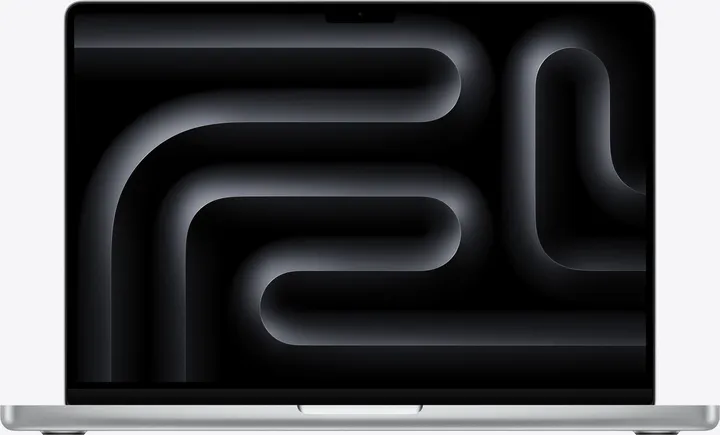
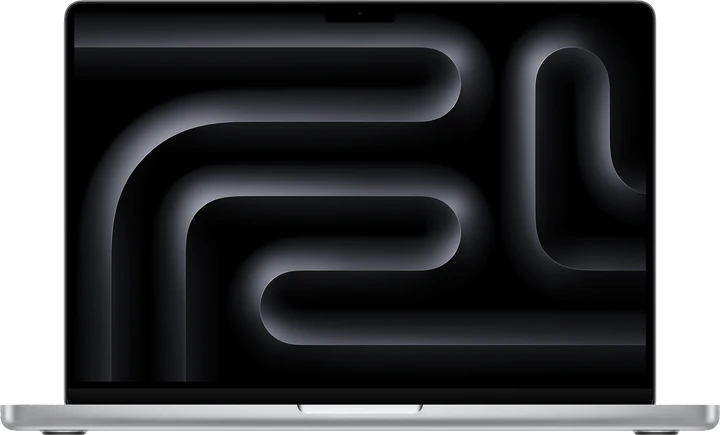
release: wycięte zdjęcia Apple, wersja w adresach zdjęć, A17/A27 bez zastępczych (#171)
* fix: zostaw w wyszukiwarce 5 szybkich akcji jako smukłe pigułki (#113)

Dziewięć dużych kafelków to było za dużo (Krystian 17.11). Zostają:
Zadzwoń (Rabka-Zdrój), Zadzwoń (Zakopane), Trasa, Zgłoś naprawę, Status.
Kopiuj numer, E-mail, Kontakt i Motyw dalej działają po wpisaniu słowa
(„kopiuj”, „motyw”…). Pigułki: ikona i dwie krótkie linie w jednym rzędzie,
na telefonie przewijane w poziomie.

* fix: usuń sklep z bloga, skróć meta wpisów, SMS → e-mail i poprawki z audytu 16.11 (#114)

* fix: usuń treści sklepowe z bloga i skróć meta wpisów

Przepisz zdania sprzedażowe (sklep, oferta, od ręki, na zamówienie) na
porady i serwis (CLAUDE.md §5). Skróć opisy wpisów do 155 znaków i
tytuły do 60. Dopisz test meta i braku treści sklepowych w blogu,
wyczyść KNOWN_SKLEP w tresc.spec.

* fix: zamień obietnicę SMS na e-mail na stronie głównej

* fix: popraw drobne treści z audytu 16.11

Odzysk danych bez gwarancji na części, „9 rodzajów folii”, jeden
certyfikat PZH i RoHS na /hammer-glass, stopka bez linku do surowego
sitemap.xml.

* docs: dopisz pomysły na później po porządkach w blogu

---------

* feat: szkic zgłoszenia w sessionStorage i zdjęcia laptopa bez logo Apple (#115)

* feat: zapisuj szkic zgłoszenia w sessionStorage i przywracaj go po odświeżeniu

Szkic (bez zgody) zapisuje się po 400 ms, wraca razem z krokiem,
pasek „Przywróciliśmy Twoje zgłoszenie · Zacznij od nowa” go czyści,
a udane wysłanie (201) usuwa. Parametry kreatora wygrywają ze szkicem
[…]

diff --git a/frontend/lib/tech/catalog/index.ts b/frontend/lib/tech/catalog/index.ts
@@ -11,8 +11,22 @@ import type { Accessory, Brand, Catalog, CatalogModel, Family, Kind, Quiz } from
 
 export * from "./types";
 
+/**
+ * Files under /tech/* are cached for 30 days (next.config publicFilesCache), so a photo replaced
+ * under the same name stayed old in returning visitors' browsers (Krystian 20.11, Samsung).
+ * The photo's source date goes into the URL: a new photo (new date) means a new address.
+ * Next 15+: allow the query in `images.localPatterns` (search: "?v=*") when upgrading.
+ */
+export function versionedSrc(src: string, date: string): string {
+  return `${src}?v=${date.replace(/-/g, "")}`;
+}
+
+function withImageVersions(models: CatalogModel[]): CatalogModel[] {
+  return models.map((m) => ({ ...m, images: m.images.map((i) => (i.src ? { ...i, src: versionedSrc(i.src, i.source.date) } : i)) }));
+}
+
 export const catalog: Catalog = {
-  models: [...(apple as CatalogModel[]), ...(samsung as CatalogModel[])],
+  models: withImageVersions([...(apple as CatalogModel[]), ...(samsung as CatalogModel[])]),
   families: families as Family[],
   accessories: accessories as Accessory[],
   quizzes: quizzes as Quiz[],

diff --git a/frontend/lib/tech/catalog/catalog.test.ts b/frontend/lib/tech/catalog/catalog.test.ts
@@ -10,6 +10,19 @@ describe("katalog: reguły danych (runda 18.11 v2 §0, §5)", () => {
     expect(catalogErrors(catalog)).toEqual([]);
   });
 
+  it("every colour has a real photo — no drawn placeholder on the page (Krystian 20.11)", () => {
+    const missing = catalog.models.flatMap((m) => m.colors.filter((c) => !m.images.some((i) => i.color === c.key)).map((c) => `${m.slug}/${c.key}`));
+    expect(missing).toEqual([]);
+  });
+
+  it("photo URLs carry the source date, and the file behind each one exists (30-day cache, Krystian 20.11)", () => {
+    for (const m of catalog.models)
+      for (const i of m.images.filter((x) => x.src)) {
+        expect(i.src, m.slug).toBe(`${i.src!.split("?")[0]}?v=${i.source.date.replace(/-/g, "")}`);
+        expect(fs.existsSync(path.resolve(__dirname, "../../../public", `.${i.src!.split("?")[0]}`)), i.src!).toBe(true);
+      }
+  });
+
   it("covers both brands and every department of the salons", () => {
     for (const brand of ["apple", "samsung"] as const) {
       expect(catalog.models.some((m) => m.brand === brand)).toBe(true);

diff --git a/docs/STAN.md b/docs/STAN.md
@@ -5,6 +5,7 @@ Aktualizuje `/koniec-sesji` na końcu każdej sesji. Najnowsze na górze.
 ## Teraz
 - **WYDANIE 19.11 19:57 UTC — `master` 5b49091 (release #162, przygotowała i wdrożyła sesja audytu):** AB5 (#161: anonimizacja przy usunięciu konta, `hmac.compare_digest`, OTP z `secrets`, backend i Celery jako uid 10001) + front Tech **#156** (sprzątanie PublicNavbar), **#158** (LCP `/zgloszenie`: nagłówek z serwera poza Suspense), **#160** (numer zgłoszenia łamany tylko po „/”). Produkcja = `develop` (to samo drzewo). Z zewnątrz 200: `/`, `/sprzedaz`, `/zgloszenie`, `/track`, `/zapytanie`, `/panel/login`, `/client/login`; w HTML `/zgloszenie` nagłówek przed placeholderem formularza. Cofnięcie: `deploy.sh prod eb2a1a4ba83dbbbeedfa9e9004de99b3266c8cea`.
 - **19.11 wieczorem:** release **#152** (Django 5.2.19 LTS + losowe nazwy plików, audyt AB4 #140/#146) scalony do `master` **eb2a1a4**, obrazy ✔, staging na tej wersji (64f8576) od 07:16 ✔. **WDROŻONE na produkcję 19.11 18:33 UTC** (zgoda Krystiana w sesji: „sam wdróż”): `MIGRATE_CONFIRM=1 deploy.sh prod eb2a1a4…` — kopia `predeploy` 432 K (także poza serwerem), migracje `accounts 0014`, `devices 0004`, `repairs 0024` zastosowane, Django 5.2.19, smoke **all ok**; z zewnątrz 200: `/`, `/sprzedaz`, karta modelu, `/apple`, `/zapytanie`, `/zgloszenie`, `/track`, `/panel/login`, `/client/login`, `/admin/login/`. Cofnięcie: `deploy.sh prod f478988da28fe8161f0d403fad046d84377137e0` (migracje `AlterField` bez SQL). Pełny e2e na `develop` (64f8576): **928 ✓ / 2 ✗ / 13 pominiętych** (51,8 min); oba błędy niestabilne — naprawione w **#153** (Ctrl K w pomocniku testów zamykał spóźnione okno wyszukiwarki; chip 43,9998 px). vitest 562 ✓, lint ✓.
+- **WYDANIE 20.11.2026 06:32 UTC (zgoda Krystiana w sesji: „Tak, wdróż”):** release **#168** → `master` **4196ec3** (drzewo = `develop` fa93426). Wchodzi **#167**: Sprzedaż i nowa czerwona sekcja ALSEN pod „Najczęstsze naprawy”, urządzenia w hero `/apple` i `/samsung`, 61 nowych wyciętych zdjęć Samsunga, srebrny iPhone na kaflu Apple. Smoke `deploy.sh` all ok; z zewnątrz: kolejność sekcji, nagłówek ALSEN, scena w obu salonach, zdjęcia Samsunga ✔. Wycofanie: `deploy.sh prod 14b94b4ca210bb26925f86346c601ae410005ebd`. Wcześniej tej nocy VPS był wyłączony 01:38–04:15 UTC (czyste zamknięcie systemu, nie nasze wdrożenie) — zapytać webh.pl o przyczynę.
 - **WYDANIE 19.11.2026 22:22 UTC (zgoda Krystiana w sesji: „Tak, wdróż”):** release **#166** → `master` **14b94b4** (drzewo = `develop` f7229bd). Wchodzi **#165**: telefon Rabki **18 267 65 11** (wcześniej błędne 18 541 20 55), punkt partnerski ALSEN = salon ul. Orkana 16B (plakietka na karcie Rabki), teksty „zamówisz przez nas wszystko z alsen.pl”. Bez backendu i migracji. Smoke all ok; z zewnątrz `/punkty-serwisowe`, strona Rabki i `/` — nowy numer, starego brak. Cofnięcie: `deploy.sh prod 5b49091…`.
 - **WYDANIE 19.11.2026 ok. 01:28 UTC (zgoda Krystiana i szefa: „wdrażaj, akceptacja szefa jest”):** release **#150** → `master` **f478988** (squash; gałąź `release/tech-oferta-glowna` = `develop` 6a13c89 + `master`, konflikty po squashu #143 rozwiązane na korzyść `develop`). Wchodzi: **#149** (sekcja „Sprzedaż” i sekcja „Autoryzowany partner ALSEN” na głównej, nowe menu „Sprzedaż”) i **#138** backend audytu AB4 (limit 10 błędnych prób na zgłoszenie w `/track`, Django admin tylko dla superuserów). **Bez migracji.** Obrazy `obrazy.yml` ✔, `deploy.sh prod f478988…` uruchomiony z sesji przez `ssh prokom-vps` (Windows OpenSSH; z Git Basha klucz nie działa), smoke **all ok**; z zewnątrz 200: `/`, `/sprzedaz`, `/sprzedaz/apple/iphone-18-pro`, `/apple`, `/samsung`, `/o-firmie`, `/zapytanie`, `/panel/login`; na głównej `#sprzedaz` i `#alsen`. Cofnięcie: `deploy.sh prod 7dba6a3…` (bez migracji). **Uwaga:** pracownik bez `is_superuser` nie zaloguje się już do `/admin/` (praca w `/panel` bez zmian). `TODO(krystian)` w sekcji ALSEN: co klient może zamówić przez nas z oferty sieci.
 - **WYDANIE 19.11.2026 ok. 00:52 UTC (decyzja Krystiana w sesji: „tak”):** release **#143** → `master` **7dba6a3** (squash, jak #98), obrazy z `obrazy.yml` ✔, `deploy.sh prod 7dba6a3` uruchomił Krystian: kopia `predeploy` (432 K, także poza serwerem ✔), migracja **`repairs 0023_repairrequest_contact_phone`** (MIGRUJ) ✔, smoke **all ok**. Z zewnątrz 200: `/`, `/sprzedaz`, `/apple`, `/samsung`, karty modeli, `/zapytanie`, `/serwis-apple`, `/serwis-samsung`, zdjęcia katalogu; sitemap 142 adresy. Cofnięcie: `deploy.sh prod 55db3260b6332eac87e634cf316716ec88d6e8eb` (migracja addytywna). **Do zrobienia ręcznie:** zapytanie testowe z `/zapytanie` (czy dochodzi na `kontakt@`) i zgłoszenie testowe (anulować w panelu), Search Console — wysłać sitemap (nowe adresy katalogu i serwisu marek). `develop` i `master` rozjechane o squash wydania — przy następnym wydaniu znów gałąź `release/…` z `develop` + `git merge origin/master`.
@@ -35,7 +36,7 @@ Aktualizuje `/koniec-sesji` na końcu każdej sesji. Najnowsze na górze.
 - **Pełny audyt gotowości 16.11 wieczorem (4 audyty równolegle na buildzie produkcyjnym + lokalny backend):** treść (89 stron, 863 linki), wygląd (472 zrzuty 360–1920, oba motywy), działanie (192 załadowania, 5 zgłoszeń testowych PROKOM/RMA/10–14/2026 w lokalnej bazie), produkcja (SEO, axe, LCP, nagłówki, Docker, CI). Poprawki: **#95** (technika: HSTS bez subdomen, cache `public/`, OG na `/`, H1 z serwera na `/zgloszenie` i `/track`, a11y kreatora, favicon, build-argi Umami/SW/CSP/draft, `USER node`, lint i vitest w CI, zacytowane `app/(public)` w skrypcie lint) i **#96** (treść, wygląd i działanie: kotwice, regulamin, soboty, blog, kapsuła 1024–1440, godziny i adres na telefonie, `/uslugi`, typografia myślnika i „·”, hydratacja SVG, fokus w formularzu, `hammer_glass_interest: null` poza telefonem/tabletem/zegarkiem). **Lista do wypuszczenia: `docs/tech/WDROZENIE-WYGLADU.md`** (decyzje, serwer, dzień D, P2). **Znalezisko poza frontem:** `kombu` nieprzypięte w `backend/requirements.txt` — świeża instalacja psuje Celery (redis-py 5.2 vs kombu 5.7); sprawdzić obraz backendu na VPS przed 29.11 (decyzja Krystiana, strefa zakazana).
 - **PRZEŁĄCZENIE NA VPS + NOWA STRONA — 16.11.2026 wieczorem (decyzja Krystiana, akceptacja szefa jest):** release **#98** (`develop` → `master`, 55db326) wdrożony na VPS (`deploy.sh prod 55db326`, smoke all ok). Przenosiny danych z Hetznera wg `NIEDZIELA.md` A–E: strona 503 na Hetznerze 22:02, aplikacja zatrzymana (db/redis/nginx zostają), `eksport-hetzner.sh` → 3 zgłoszenia, 8 klientów, sha256 `9ef85a5a…` zgodne Hetzner = `D:\PRO-KOM\kopie` = VPS, `restore.sh` (3 zgłoszenia), brak oczekujących migracji, DNS 22:06, certyfikat `prokom-tech-prod`, Nginx z nakładką `tech-prod`, `TECH_PROD_HOST` dopisany do `.env.proxy` (kopia `../backups/.env.proxy.przed-tech-prod`). Testy: wszystkie adresy 200, API 400, HSTS, zgłoszenie testowe **PROKOM/RMA/8/2026** (201, Celery wysłał powiadomienie) — **do anulowania w panelu**; prokom-web, Gaming, staging Tech bez zmian. **Celery naprawiony** (obraz 61f8f54 na VPS miał kombu 5.7 → pętla restartów; 55db326 ma kombu 5.4.2, #97). **Kopie:** lokalna `backups/tech/prod/daily/` + cron 3:45 UTC; **Backblaze B2 przekroczył limit miejsca (403 storage_cap_exceeded, 8,8 GiB)** — kopie poza serwerem nie wychodzą dla żadnego stosu (prokom-web, Gaming, Tech); predeploy i pierwsza kopia prod zrobione `BACKUP_LOCAL_ONLY` za zgodą Krystiana. **Do zrobienia:** limit B2 albo sprzątanie kopii stagingu; heartbeat Better Stack; Search Console (sitemap); Umami (zmienne + `tech.conf`); `SERWIS_PRINT_HOURS` z sobotą 9–14 w `.env.prod` VPS; Hetzner w trybie 503 przez 14 dni (do 30.11), potem archiwum i usunięcie (MIGRACJA §10); polityka prywatności: hosting webh.pl.
 - **Następny krok (runda 18.11):** (1) **Krystian:** przejrzeć na stagingu `/sprzedaz`, `/apple`, `/samsung`, kartę modelu, `/zapytanie`, `/serwis-apple`, kapsułę z „Sprzedaż” i przycisk motywu; decyzje poniżej. (2) Wpisać potwierdzone wartości: numer Rabki, nazwa „Infolinia”, e-maile punktów (po założeniu skrzynek w SH 1), adres punktu ALSEN (`partners.alsen.pointConfirmed`). (3) Wydanie po 29.11 i akceptacji szefa. Prompt do wklejenia: „Sesja T-R3 — poprawki po przeglądzie rundy 18.11: przeczytaj docs/STAN.md (Runda 18.11, Pytania 18.11), wpisz moje decyzje do config/prokom.ts i content/katalog, popraw uwagi z przeglądu, PR-y do develop.”
-- **Następny krok:** (1) Przełączenie produkcji na VPS w niedzielę 29.11 (MIGRACJA §8) + heartbeat i cron kopii prod. (2) Etap D: wysyłka z aplikacji przez SH 1, potem SPF bez Gmaila. (3) **Krystian:** przejrzeć wygląd całości na stagingu/lokalnie; ✔ teksty pomocnika modelu (#79) i 78 zdań o praktyce serwisu (#63) zaakceptowane 15.11 („zgoda na wszystkie”); ✔ teksty modalu pomocnika modelu (#88) zaakceptowane 15.11 („teksty akceptuje”); obejrzeć zalogowane konto z wyceną `wait_decision` na stagingu. (4) TD6 PR 3 release dopiero po 29.11 i akceptacji szefa.
+- **Następny krok:** (1) Produkcja działa na VPS od 16.11 (przełączenie zrobione) — zostały heartbeat i cron kopii prod oraz wyłączenie Hetznera po 30.11. (2) Etap D: wysyłka z aplikacji przez SH 1, potem SPF bez Gmaila. (3) **Krystian:** przejrzeć wygląd całości na stagingu/lokalnie; ✔ teksty pomocnika modelu (#79) i 78 zdań o praktyce serwisu (#63) zaakceptowane 15.11 („zgoda na wszystkie”); ✔ teksty modalu pomocnika modelu (#88) zaakceptowane 15.11 („teksty akceptuje”); obejrzeć zalogowane konto z wyceną `wait_decision` na stagingu. (4) TD6 PR 3 release dopiero po 29.11 i akceptacji szefa.
 
 ## Pilne
 - ✖ **Sobota w Rabce: 9:00–14:00** (decyzja Krystiana 14.11.2026; SPEC §5 bez zmian). Blok „Twój serwis” w `/track` i wydruki biorą godziny z `SERWIS_PRINT_HOURS` — ustawić w `.env.prod` na Hetznerze (i od razu na VPS w TM) `Pn–Pt 9:00–17:00 · Sob 9:00–14:00`, potem restart `backend` i `celery`. Domyślna wartość w `base.py` (13:00) zostaje — backlog `WYJATKI.md`.
